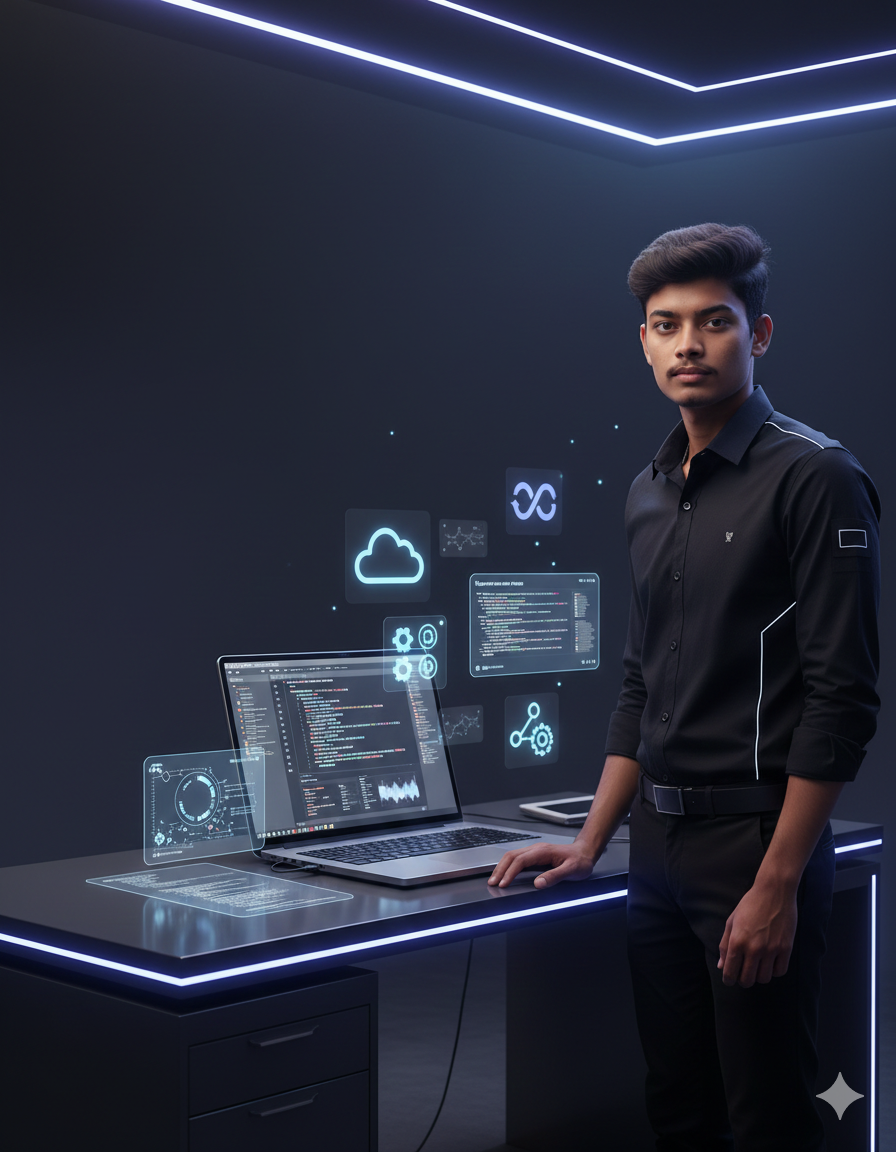
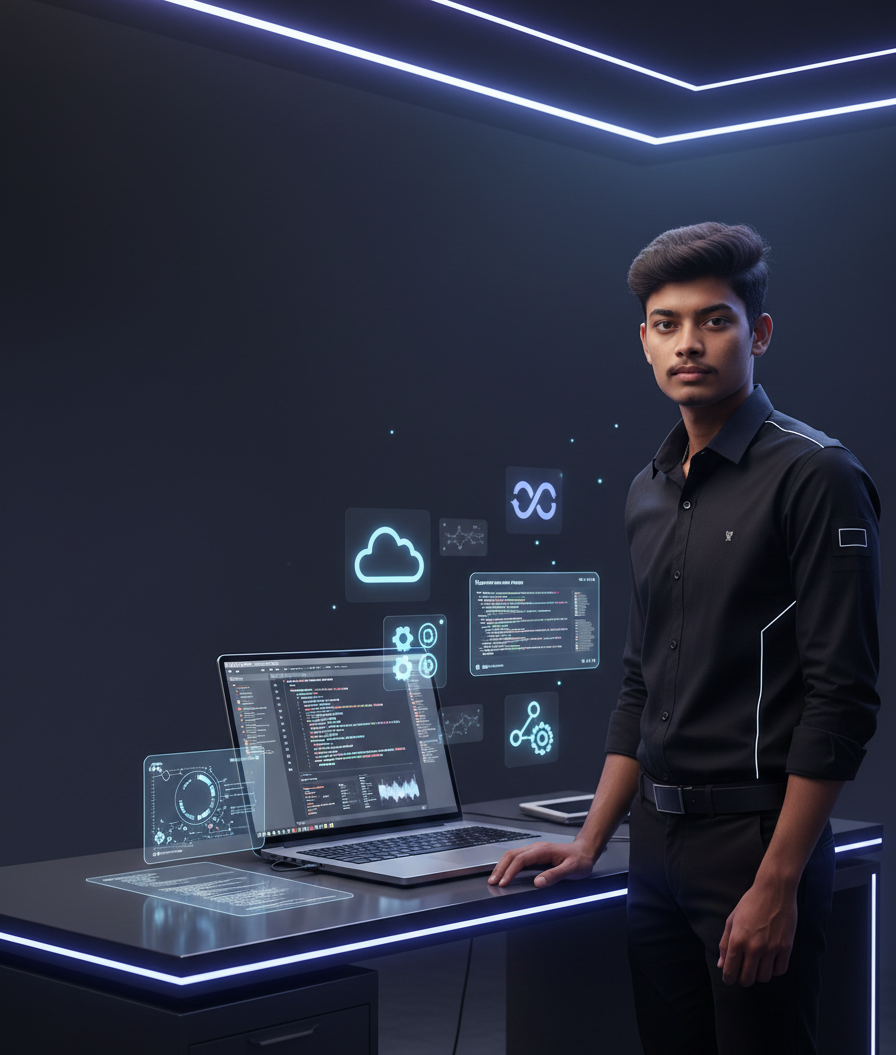
changed image and made changes in the html file

diff --git a/index.html b/index.html
@@ -100,7 +100,7 @@
         <div class="about-left">
           <!-- Profile image with 3D tilt -->
           <div class="tilt-card" id="tiltCard">
-            <img src="/asserts/PHOTO.jpeg.jpg" alt="Profile photo" class="about-photo" />
+            <img src="/asserts/profile.png" alt="Profile photo" class="about-photo" />
           </div>
         </div>
 
